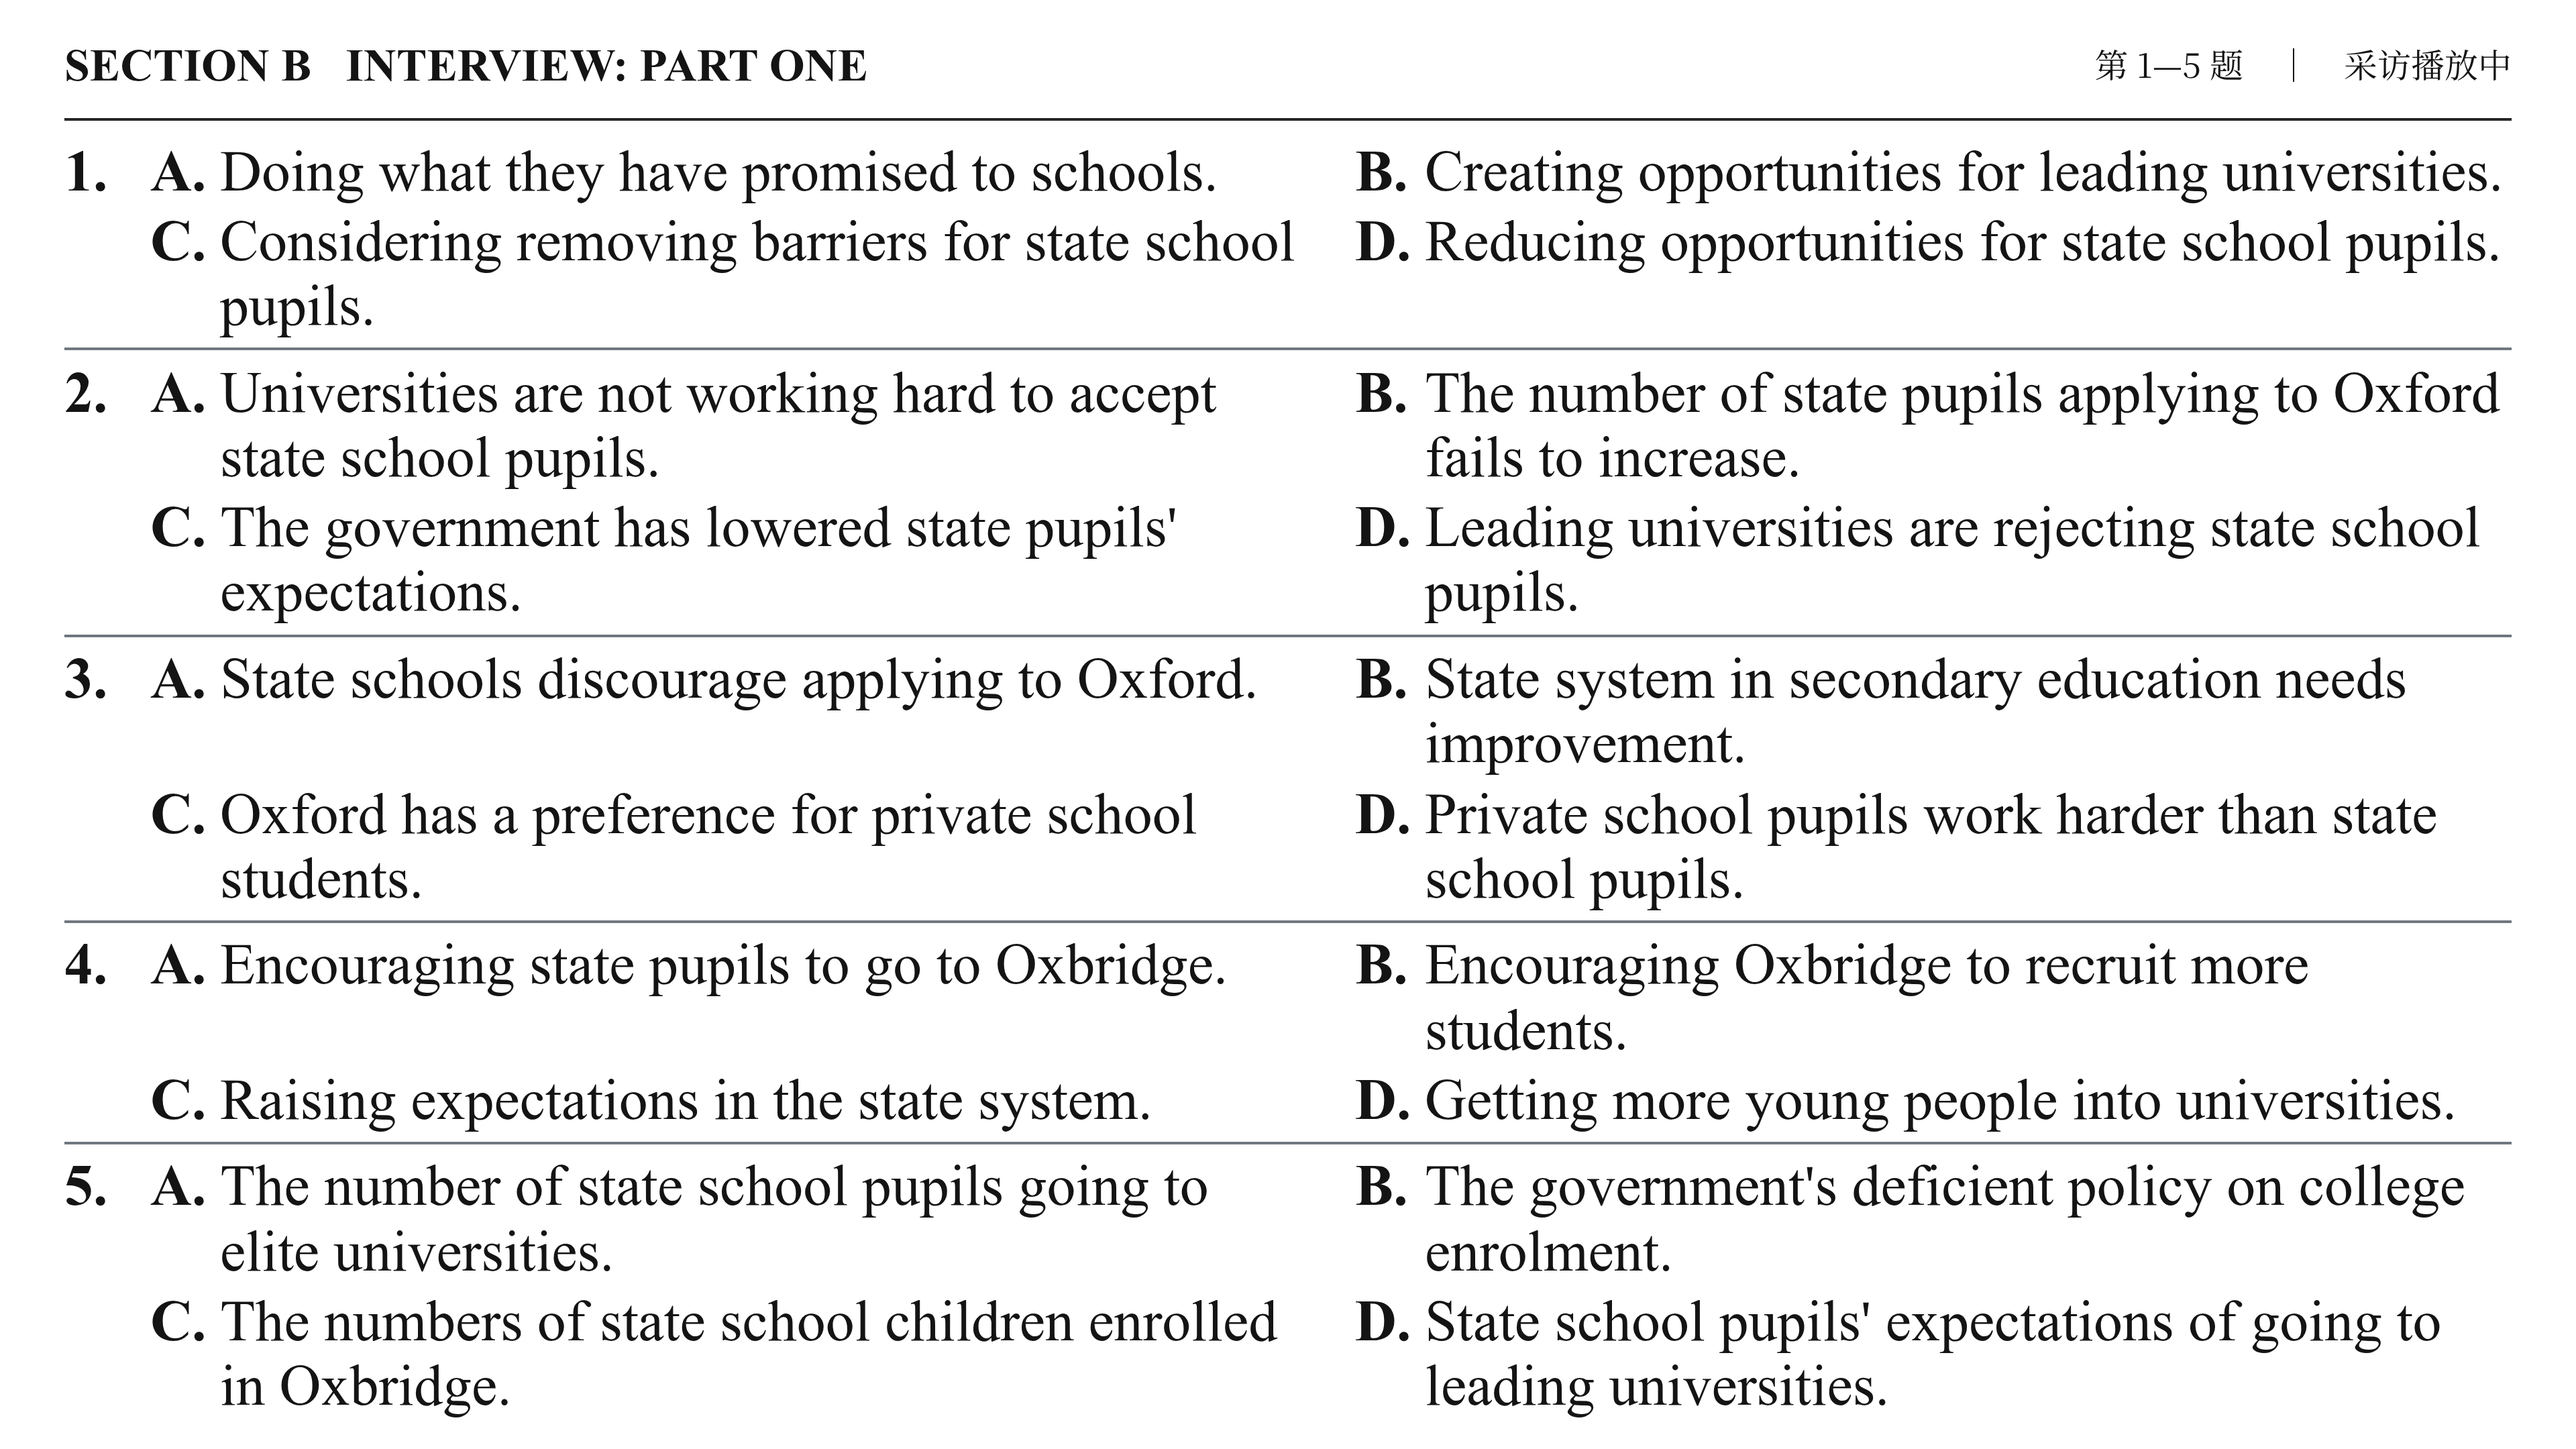
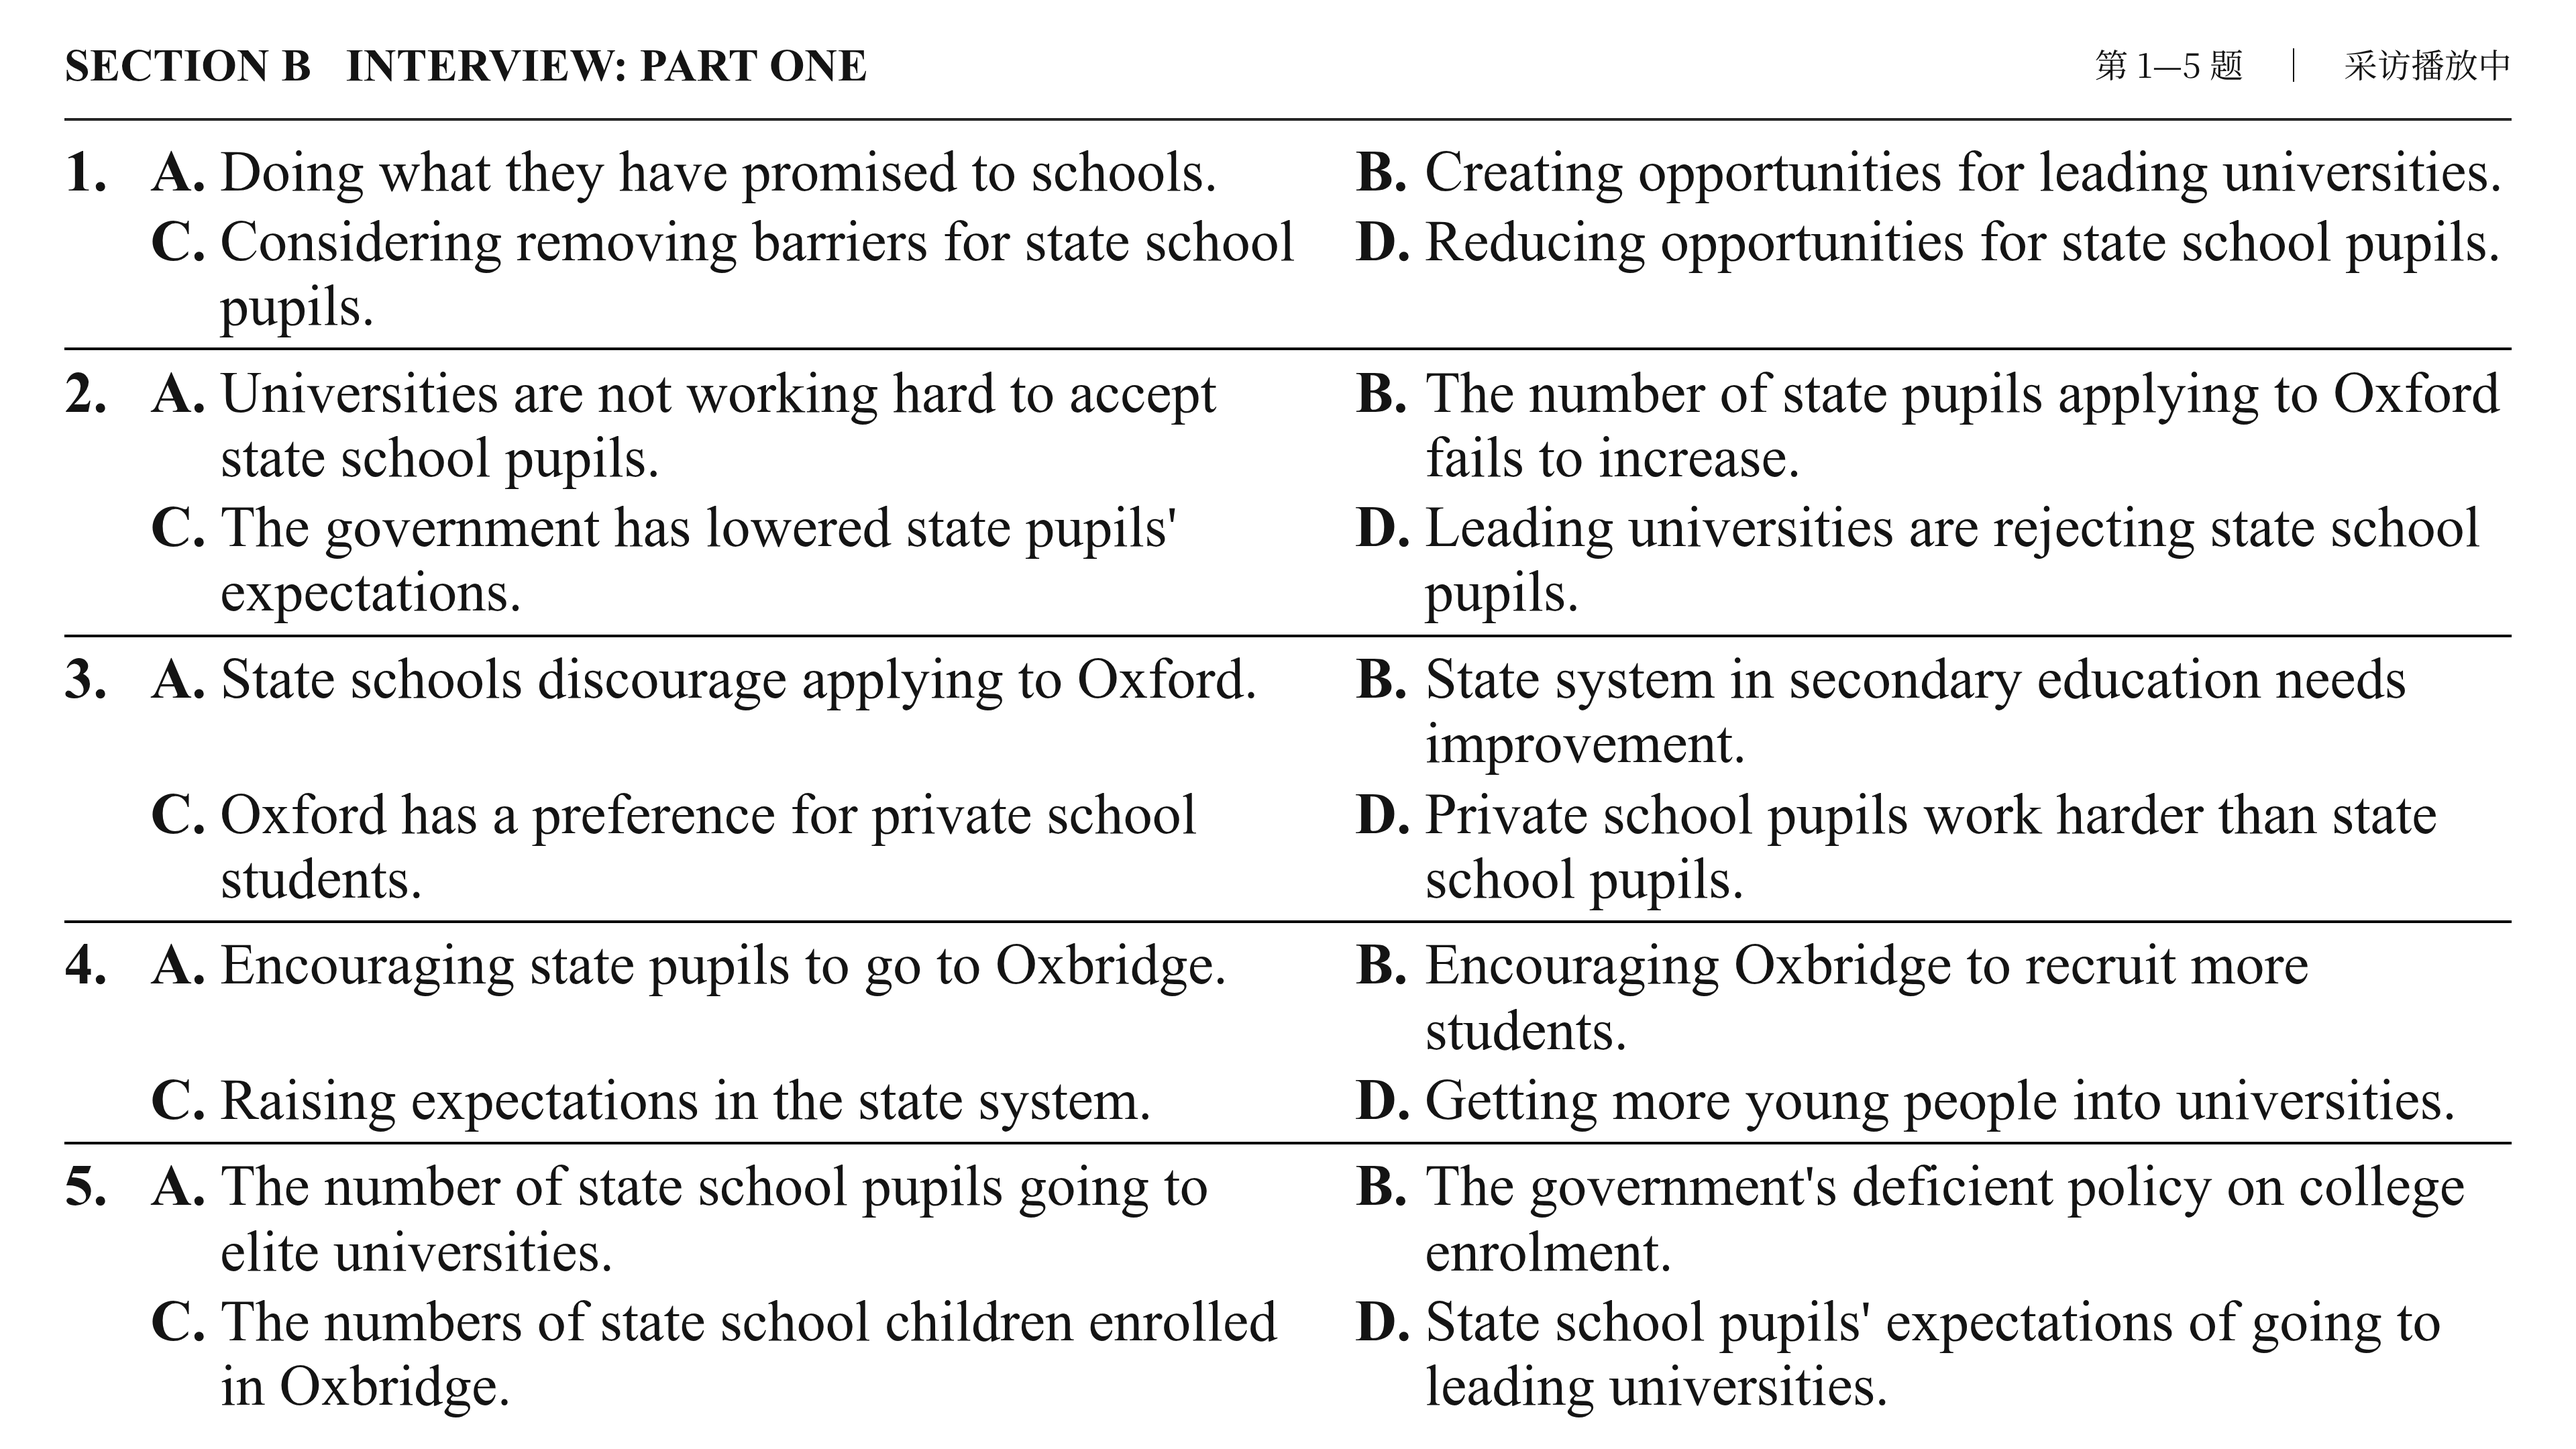
按用户要求把题间分隔线改为2px纯黑色

diff --git a/专八/听力/排版预览/五题同屏_待确认/排版预览.html b/专八/听力/排版预览/五题同屏_待确认/排版预览.html
@@ -7,7 +7,7 @@ body{font-family:Paper,"Times New Roman",serif;padding:25px 48px 23px;display:fl
 .heading{font-size:34px;font-weight:700;line-height:1.16;white-space:nowrap;padding-top:4px}
 .status{font-family:"Noto Serif CJK SC","Noto Serif SC",serif;font-size:25px;line-height:1.4;white-space:nowrap;padding-top:6px}
 .questions{flex:1;min-height:0;display:flex;flex-direction:column;justify-content:space-between;--fs:42px}
-.question{display:grid;grid-template-columns:48px minmax(0,1fr);gap:16px;padding:6px 0 7px;border-bottom:2px solid #707780;flex:none}
+.question{display:grid;grid-template-columns:48px minmax(0,1fr);gap:16px;padding:6px 0 7px;border-bottom:2px solid #000000;flex:none}
 .question:last-child{border-bottom:0;padding-bottom:0}
 .number{font-size:var(--fs);font-weight:700;line-height:1.12}
 .options{display:grid;grid-template-columns:minmax(0,1fr) minmax(0,1fr);column-gap:36px;row-gap:4px;align-items:start}

diff --git a/专八/听力/排版预览/五题同屏_待确认/生成预览.py b/专八/听力/排版预览/五题同屏_待确认/生成预览.py
@@ -35,7 +35,7 @@ body{font-family:Paper,"Times New Roman",serif;padding:25px 48px 23px;display:fl
 .heading{font-size:34px;font-weight:700;line-height:1.16;white-space:nowrap;padding-top:4px}
 .status{font-family:"Noto Serif CJK SC","Noto Serif SC",serif;font-size:25px;line-height:1.4;white-space:nowrap;padding-top:6px}
 .questions{flex:1;min-height:0;display:flex;flex-direction:column;justify-content:space-between;--fs:42px}
-.question{display:grid;grid-template-columns:48px minmax(0,1fr);gap:16px;padding:6px 0 7px;border-bottom:2px solid #707780;flex:none}
+.question{display:grid;grid-template-columns:48px minmax(0,1fr);gap:16px;padding:6px 0 7px;border-bottom:2px solid #000000;flex:none}
 .question:last-child{border-bottom:0;padding-bottom:0}
 .number{font-size:var(--fs);font-weight:700;line-height:1.12}
 .options{display:grid;grid-template-columns:minmax(0,1fr) minmax(0,1fr);column-gap:36px;row-gap:4px;align-items:start}
@@ -74,7 +74,7 @@ body{font-family:Paper,"Times New Roman",serif;padding:25px 48px 23px;display:fl
         }''', expected)
         pg.screenshot(path=str(HERE/'五题同屏_整齐选项_预览.png'))
         br.close()
-    (HERE/'预览说明.json').write_text(json.dumps({'status':'USER_APPROVED_LAYOUT_WITH_REQUESTED_DARKER_SEPARATORS','scope':'用户认可五题同屏固定AB/CD排版；按本轮要求将题间线加深加粗。此目录仅为图片预览，不生成视频；2025保持原样。','separator':{'width_css_px':2,'color':'#707780'},'source_paper':PAPER.relative_to(ROOT).as_posix(),'source_sha256':hashlib.sha256(PAPER.read_bytes()).hexdigest(),'group':group,'pixels':[3840,2160],**result},ensure_ascii=False,indent=2)+'\n')
+    (HERE/'预览说明.json').write_text(json.dumps({'status':'USER_APPROVED_LAYOUT_WITH_REQUESTED_BLACK_SEPARATORS','scope':'用户认可五题同屏固定AB/CD排版；按本轮要求将题间线设为纯黑色（2px）。此目录仅为图片预览，不生成视频；2025保持原样。','separator':{'width_css_px':2,'color':'#000000'},'source_paper':PAPER.relative_to(ROOT).as_posix(),'source_sha256':hashlib.sha256(PAPER.read_bytes()).hexdigest(),'group':group,'pixels':[3840,2160],**result},ensure_ascii=False,indent=2)+'\n')
     print(json.dumps(result,ensure_ascii=False))
 
 
